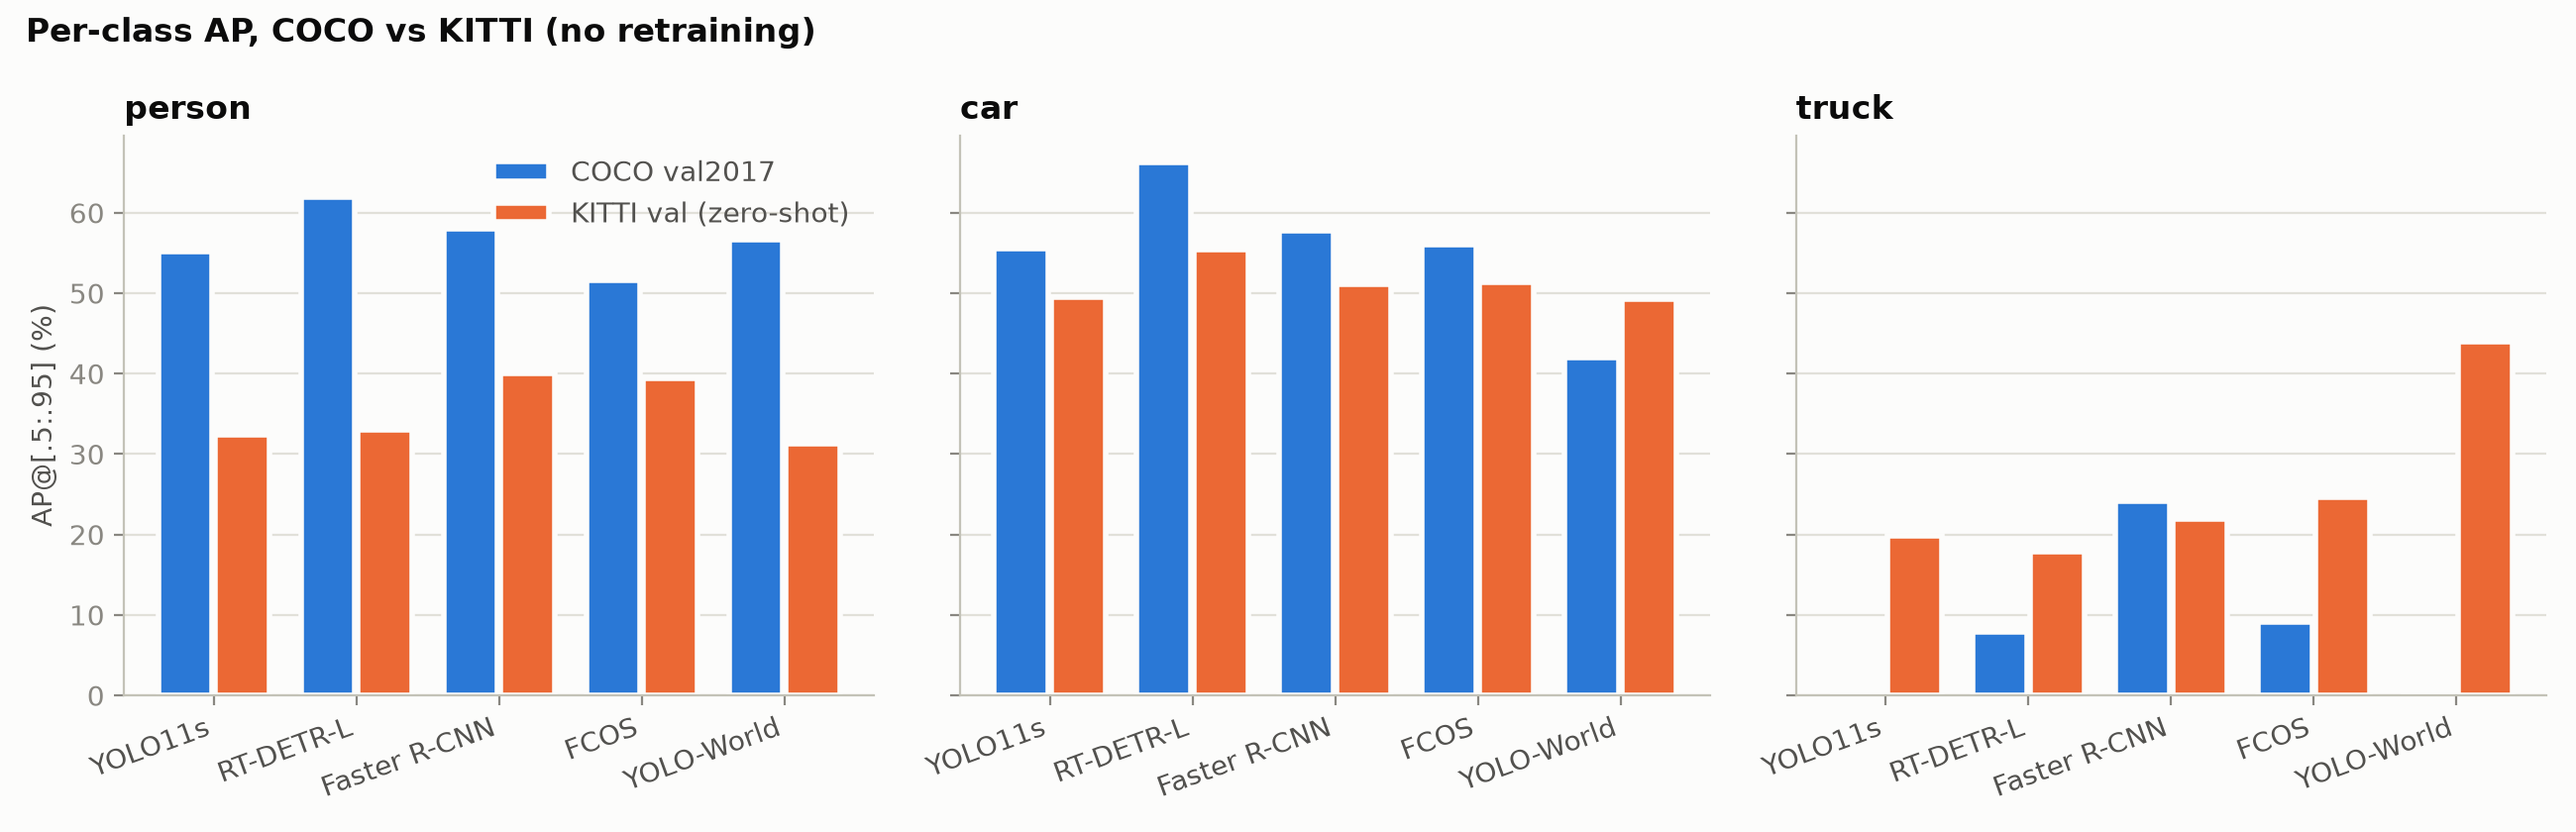
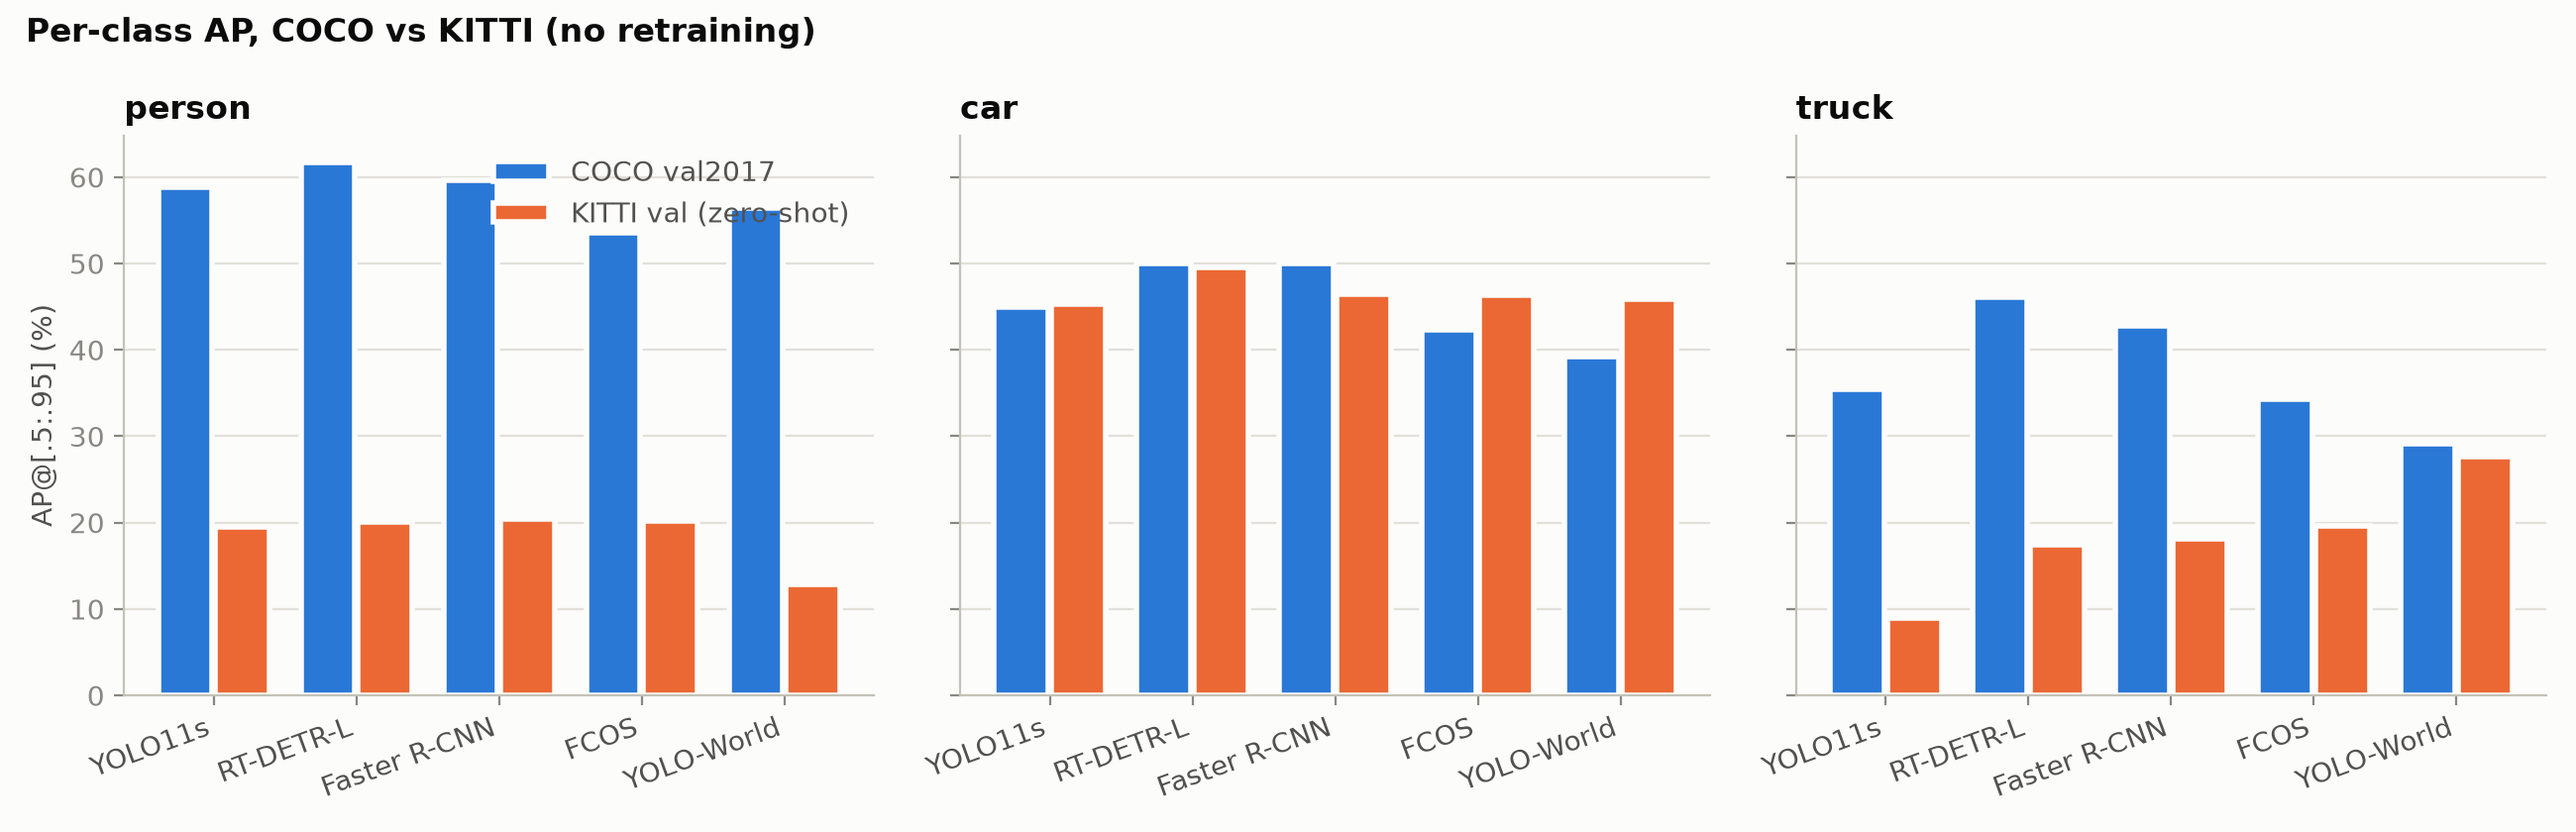
fix(results): regenerate tables/figures from full zero-shot metrics
The previous commit (454d95a) accidentally included tables/figures left over
from the 25-image smoke test; they are now rebuilt from the full runs.
benchmark.md / speed_accuracy.png are still smoke-test values until stage 5.

Note on 454d95a's message (a word was lost to shell quoting): the code change
lets the `half` (FP16) setting be overridden per model in configs/experiments.yaml.

diff --git a/results/tables/main_results.md b/results/tables/main_results.md
@@ -1,16 +1,14 @@
-| run                     | model                      | family                                      | eval          | imgsz          |   n_img |   AP |   AP50 |   AP75 |   AP_S |   AP_M |   AP_L |   AR100 |
-|:------------------------|:---------------------------|:--------------------------------------------|:--------------|:---------------|--------:|-----:|-------:|-------:|-------:|-------:|-------:|--------:|
-| fcos_r50__coco          | FCOS R50-FPN               | One-stage, anchor-free, dense (FCOS)        | coco          | min800/max1333 |      25 | 47.0 |   63.5 |   51.5 |   29.6 |   55.9 |   71.8 |    65.5 |
-| fcos_r50__kitti         | FCOS R50-FPN               | One-stage, anchor-free, dense (FCOS)        | kitti_cocomap | min800/max1333 |      25 | 38.5 |   64.0 |   45.8 |   37.2 |   34.8 |   61.2 |    67.1 |
-| frcnn_r50_v2__coco      | Faster R-CNN R50-FPN v2    | Two-stage, anchor-based (Faster R-CNN)      | coco          | min800/max1333 |      25 | 60.9 |   81.8 |   63.3 |   47.1 |   70.2 |   77.2 |    70.9 |
-| frcnn_r50_v2__kitti     | Faster R-CNN R50-FPN v2    | Two-stage, anchor-based (Faster R-CNN)      | kitti_cocomap | min800/max1333 |      25 | 37.7 |   59.2 |   49.1 |   23.8 |   40.0 |   58.5 |    65.8 |
-| rtdetr_l__coco          | RT-DETR-L                  | DETR (query-based, NMS-free)                | coco          | 640            |      25 | 64.7 |   78.6 |   69.7 |   44.8 |   75.0 |   81.5 |    78.4 |
-| rtdetr_l__kitti         | RT-DETR-L                  | DETR (query-based, NMS-free)                | kitti_cocomap | 640            |      25 | 35.4 |   58.3 |   44.5 |   25.6 |   42.3 |   62.8 |    62.7 |
-| yolo11s__coco           | YOLO11s                    | YOLO (one-stage, anchor-free, NMS)          | coco          | 640            |      25 | 57.6 |   77.4 |   58.7 |   36.5 |   67.8 |   80.5 |    65.3 |
-| yolo11s__kitti          | YOLO11s                    | YOLO (one-stage, anchor-free, NMS)          | kitti_cocomap | 640            |      25 | 33.9 |   53.7 |   44.0 |   16.8 |   42.8 |   61.7 |    52.5 |
-| yolo11s__kitti__res1280 | YOLO11s                    | YOLO (one-stage, anchor-free, NMS)          | kitti_cocomap | 1280           |      25 | 41.0 |   63.7 |   54.1 |   43.4 |   33.8 |   59.7 |    56.9 |
-| yolo11s_kitti_ft__kitti | YOLO11s (KITTI fine-tuned) | YOLO (fine-tuned on KITTI train)            | kitti_cocomap | 640            |      25 | 12.7 |   21.3 |   13.3 |   12.8 |   21.2 |   24.2 |    20.9 |
-| yolo11s_kitti_ft__kitti | YOLO11s (KITTI fine-tuned) | YOLO (fine-tuned on KITTI train)            | kitti_native  | 640            |      25 |  6.3 |   10.7 |    6.7 |    7.7 |    8.5 |   16.5 |    11.6 |
-| yoloworld_s__coco       | YOLO-World-S v2            | Open-vocabulary (YOLO-World, text-prompted) | coco          | 640            |      25 | 53.1 |   69.5 |   57.9 |   28.4 |   65.5 |   75.8 |    62.8 |
-| yoloworld_s__kitti      | YOLO-World-S v2            | Open-vocabulary (YOLO-World, text-prompted) | kitti_cocomap | 640            |      25 | 41.5 |   61.4 |   46.6 |   41.5 |   40.7 |   58.6 |    63.2 |
-| yoloworld_s__kitti      | YOLO-World-S v2            | Open-vocabulary (YOLO-World, text-prompted) | kitti_native  | 640            |      25 | 24.0 |   34.3 |   27.7 |   25.0 |   33.5 |   36.1 |    40.0 |
+| run                     | model                   | family                                      | eval          | imgsz          |   n_img |   AP |   AP50 |   AP75 |   AP_S |   AP_M |   AP_L |   AR100 |
+|:------------------------|:------------------------|:--------------------------------------------|:--------------|:---------------|--------:|-----:|-------:|-------:|-------:|-------:|-------:|--------:|
+| fcos_r50__coco          | FCOS R50-FPN            | One-stage, anchor-free, dense (FCOS)        | coco          | min800/max1333 |    5000 | 39.3 |   58.7 |   42.1 |   22.5 |   42.5 |   51.4 |    60.0 |
+| fcos_r50__kitti         | FCOS R50-FPN            | One-stage, anchor-free, dense (FCOS)        | kitti_cocomap | min800/max1333 |    1496 | 28.7 |   54.5 |   27.4 |   21.0 |   27.5 |   38.5 |    53.8 |
+| frcnn_r50_v2__coco      | Faster R-CNN R50-FPN v2 | Two-stage, anchor-based (Faster R-CNN)      | coco          | min800/max1333 |    5000 | 47.0 |   68.1 |   51.3 |   31.2 |   50.8 |   60.4 |    64.8 |
+| frcnn_r50_v2__kitti     | Faster R-CNN R50-FPN v2 | Two-stage, anchor-based (Faster R-CNN)      | kitti_cocomap | min800/max1333 |    1496 | 28.3 |   54.4 |   27.3 |   15.3 |   26.9 |   40.0 |    54.7 |
+| rtdetr_l__coco          | RT-DETR-L               | DETR (query-based, NMS-free)                | coco          | 640            |    5000 | 52.8 |   71.2 |   57.1 |   34.3 |   57.3 |   70.9 |    71.7 |
+| rtdetr_l__kitti         | RT-DETR-L               | DETR (query-based, NMS-free)                | kitti_cocomap | 640            |    1496 | 29.0 |   53.8 |   27.4 |   22.4 |   27.6 |   40.9 |    55.6 |
+| yolo11s__coco           | YOLO11s                 | YOLO (one-stage, anchor-free, NMS)          | coco          | 640            |    5000 | 45.6 |   62.3 |   49.3 |   27.8 |   50.1 |   62.5 |    61.7 |
+| yolo11s__kitti          | YOLO11s                 | YOLO (one-stage, anchor-free, NMS)          | kitti_cocomap | 640            |    1496 | 24.6 |   48.2 |   22.5 |   14.0 |   22.2 |   36.8 |    42.7 |
+| yolo11s__kitti__res1280 | YOLO11s                 | YOLO (one-stage, anchor-free, NMS)          | kitti_cocomap | 1280           |    1496 | 26.9 |   51.0 |   25.1 |   21.9 |   25.2 |   36.3 |    47.0 |
+| yoloworld_s__coco       | YOLO-World-S v2         | Open-vocabulary (YOLO-World, text-prompted) | coco          | 640            |    5000 | 36.8 |   51.3 |   39.8 |   20.6 |   40.5 |   48.9 |    56.9 |
+| yoloworld_s__kitti      | YOLO-World-S v2         | Open-vocabulary (YOLO-World, text-prompted) | kitti_cocomap | 640            |    1496 | 28.8 |   50.0 |   29.5 |   23.7 |   26.4 |   42.4 |    54.0 |
+| yoloworld_s__kitti      | YOLO-World-S v2         | Open-vocabulary (YOLO-World, text-prompted) | kitti_native  | 640            |    1496 | 15.3 |   26.9 |   15.6 |   11.2 |   15.1 |   22.6 |    35.6 |

diff --git a/results/tables/domain_shift.md b/results/tables/domain_shift.md
@@ -1,7 +1,7 @@
 | model                   |   COCO_AP_80cls |   COCO_AP_3cls |   KITTI_AP_3cls |   drop_pts |   COCO_person |   KITTI_person |   COCO_car |   KITTI_car |   COCO_truck |   KITTI_truck |
 |:------------------------|----------------:|---------------:|----------------:|-----------:|--------------:|---------------:|-----------:|------------:|-------------:|--------------:|
-| YOLO11s                 |            57.6 |           36.9 |            33.9 |        3.0 |          55.2 |           32.4 |       55.5 |        49.5 |          0.0 |          19.9 |
-| RT-DETR-L               |            64.7 |           45.4 |            35.4 |       10.0 |          61.9 |           33.1 |       66.3 |        55.4 |          7.9 |          17.8 |
-| Faster R-CNN R50-FPN v2 |            60.9 |           46.7 |            37.7 |        9.0 |          58.1 |           40.1 |       57.7 |        51.1 |         24.2 |          21.9 |
-| FCOS R50-FPN            |            47.0 |           38.9 |            38.5 |        0.4 |          51.6 |           39.5 |       56.0 |        51.4 |          9.1 |          24.6 |
-| YOLO-World-S v2         |            53.1 |           32.9 |            41.5 |       -8.6 |          56.7 |           31.3 |       42.1 |        49.3 |          0.0 |          44.0 |
+| YOLO11s                 |            45.6 |           46.4 |            24.6 |       21.8 |          58.8 |           19.5 |       44.9 |        45.3 |         35.5 |           9.0 |
+| RT-DETR-L               |            52.8 |           52.6 |            29.0 |       23.6 |          61.7 |           20.1 |       50.0 |        49.5 |         46.1 |          17.4 |
+| Faster R-CNN R50-FPN v2 |            47.0 |           50.8 |            28.3 |       22.5 |          59.6 |           20.5 |       50.0 |        46.4 |         42.8 |          18.1 |
+| FCOS R50-FPN            |            39.3 |           43.4 |            28.7 |       14.7 |          53.5 |           20.2 |       42.4 |        46.4 |         34.3 |          19.7 |
+| YOLO-World-S v2         |            36.8 |           41.6 |            28.8 |       12.8 |          56.5 |           12.8 |       39.2 |        45.9 |         29.2 |          27.7 |

diff --git a/results/tables/domain_shift_scale.md b/results/tables/domain_shift_scale.md
@@ -1,17 +1,17 @@
 | model                   | scale   |   COCO_3cls |   KITTI_3cls |
 |:------------------------|:--------|------------:|-------------:|
-| YOLO11s                 | small   |        21.9 |         16.8 |
-| YOLO11s                 | medium  |        61.3 |         42.8 |
-| YOLO11s                 | large   |        78.0 |         61.7 |
-| RT-DETR-L               | small   |        32.5 |         25.6 |
-| RT-DETR-L               | medium  |        76.9 |         42.3 |
-| RT-DETR-L               | large   |        84.4 |         62.8 |
-| Faster R-CNN R50-FPN v2 | small   |        50.6 |         23.8 |
-| Faster R-CNN R50-FPN v2 | medium  |        73.1 |         40.0 |
-| Faster R-CNN R50-FPN v2 | large   |        79.8 |         58.5 |
-| FCOS R50-FPN            | small   |        35.9 |         37.2 |
-| FCOS R50-FPN            | medium  |        66.7 |         34.8 |
-| FCOS R50-FPN            | large   |        72.6 |         61.2 |
-| YOLO-World-S v2         | small   |        19.1 |         41.5 |
-| YOLO-World-S v2         | medium  |        51.9 |         40.7 |
-| YOLO-World-S v2         | large   |        79.3 |         58.6 |
+| YOLO11s                 | small   |        27.9 |         14.0 |
+| YOLO11s                 | medium  |        55.7 |         22.2 |
+| YOLO11s                 | large   |        69.6 |         36.8 |
+| RT-DETR-L               | small   |        34.1 |         22.4 |
+| RT-DETR-L               | medium  |        61.3 |         27.6 |
+| RT-DETR-L               | large   |        75.4 |         40.9 |
+| Faster R-CNN R50-FPN v2 | small   |        36.3 |         15.3 |
+| Faster R-CNN R50-FPN v2 | medium  |        57.9 |         26.9 |
+| Faster R-CNN R50-FPN v2 | large   |        67.4 |         40.0 |
+| FCOS R50-FPN            | small   |        28.3 |         21.0 |
+| FCOS R50-FPN            | medium  |        50.0 |         27.5 |
+| FCOS R50-FPN            | large   |        61.6 |         38.5 |
+| YOLO-World-S v2         | small   |        24.0 |         23.7 |
+| YOLO-World-S v2         | medium  |        50.8 |         26.4 |
+| YOLO-World-S v2         | large   |        62.1 |         42.4 |

diff --git a/results/tables/finetune.md b/results/tables/finetune.md
@@ -1,7 +1,5 @@
 | model                               | eval                  |   AP |   AP50 |   AP_S |   AP_person |   AP_car |   AP_truck |
 |:------------------------------------|:----------------------|-----:|-------:|-------:|------------:|---------:|-----------:|
-| YOLO11s zero-shot (COCO weights)    | kitti_cocomap (3 cls) | 33.9 |   53.7 |   16.8 |        32.4 |     49.5 |       19.9 |
-| YOLO-World zero-shot (text prompts) | kitti_cocomap (3 cls) | 41.5 |   61.4 |   41.5 |        31.3 |     49.3 |       44.0 |
-| YOLO11s fine-tuned on KITTI         | kitti_cocomap (3 cls) | 12.7 |   21.3 |   12.8 |         0.0 |     35.5 |        2.5 |
-| YOLO-World zero-shot                | kitti_native (7 cls)  | 24.0 |   34.3 |   25.0 |       nan   |    nan   |      nan   |
-| YOLO11s fine-tuned                  | kitti_native (7 cls)  |  6.3 |   10.7 |    7.7 |       nan   |    nan   |      nan   |
+| YOLO11s zero-shot (COCO weights)    | kitti_cocomap (3 cls) | 24.6 |   48.2 |   14.0 |        19.5 |     45.3 |        9.0 |
+| YOLO-World zero-shot (text prompts) | kitti_cocomap (3 cls) | 28.8 |   50.0 |   23.7 |        12.8 |     45.9 |       27.7 |
+| YOLO-World zero-shot                | kitti_native (7 cls)  | 15.3 |   26.9 |   11.2 |       nan   |    nan   |      nan   |

diff --git a/results/tables/resolution.md b/results/tables/resolution.md
@@ -1,4 +1,4 @@
 |   imgsz |   AP |   AP50 |   AP_small |   AP_medium |   AP_large |
 |--------:|-----:|-------:|-----------:|------------:|-----------:|
-|   640.0 | 33.9 |   53.7 |       16.8 |        42.8 |       61.7 |
-|  1280.0 | 41.0 |   63.7 |       43.4 |        33.8 |       59.7 |
+|   640.0 | 24.6 |   48.2 |       14.0 |        22.2 |       36.8 |
+|  1280.0 | 26.9 |   51.0 |       21.9 |        25.2 |       36.3 |

diff --git a/commands.md b/commands.md
@@ -23,3 +23,4 @@
     python scripts/predict.py --model fcos_r50 --dataset kitti
     python scripts/evaluate.py --run fcos_r50__coco --target coco
     python scripts/evaluate.py --run fcos_r50__kitti --target kitti_cocomap
+    python scripts/analyze.py      # regenerate tables/figures from full-run metrics
